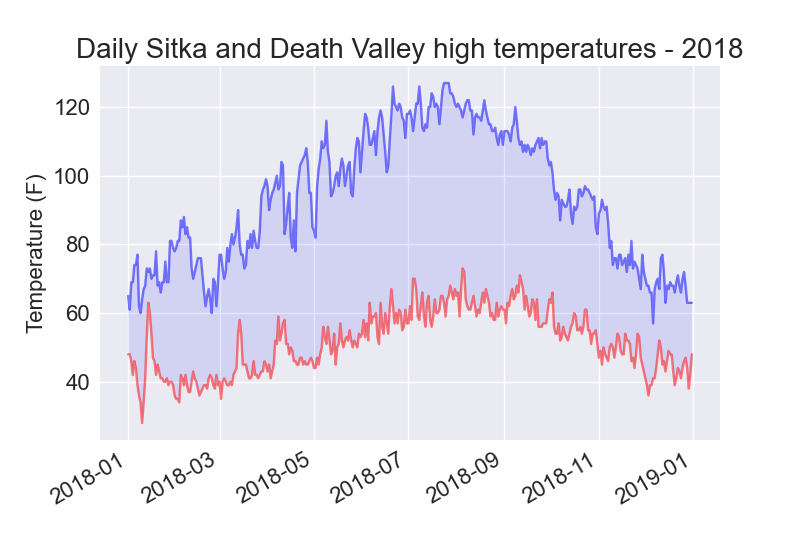
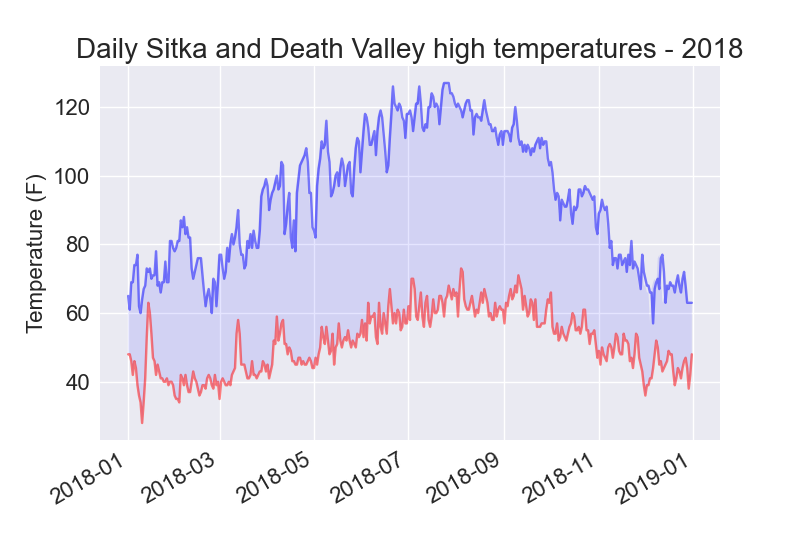
sikta death_valley high updated

Changed region(s): [[0.25, 0.4945, 0.8438, 0.7109]]

diff --git a/exercises/sikta__death_valley_highs.py b/exercises/sikta__death_valley_highs.py
@@ -10,12 +10,12 @@ with open(file_name) as f:
     header_row = next(reader) # get first line for the file
     
     # Get dates high temperatures from this sitka.
-    dates, sitka_highs = [], []
+    sk_dates, sitka_highs = [], []
     # Loop through the entire file and get the max_tem values
     for row in reader:
         current_date = datetime.strptime(row[2], '%Y-%m-%d')
         sk_high = int(row[5]) # Get the MaxTem results 
-        dates.append(current_date)
+        sk_dates.append(current_date)
         sitka_highs.append(sk_high)
     
 
@@ -28,7 +28,7 @@ with open(filename) as f:
     #     print(index, column_reader)
 
     # Get dates, and high and low tempratures for this file.
-    dates, death_valley_highs, = [], []
+    dv_dates, death_valley_highs, = [], []
     for row in reader:
         current_date = datetime.strptime(row[2], "%Y-%m-%d")
         try:
@@ -37,7 +37,7 @@ with open(filename) as f:
         except ValueError:
             print(f"Missing date for {current_date}")
         else:
-            dates.append(current_date)
+            dv_dates.append(current_date)
             death_valley_highs.append(dv_high)
             
 
@@ -45,16 +45,18 @@ with open(filename) as f:
     # Plot the sitka and death valley high temperature.
     plt.style.use('seaborn-v0_8')
     fig, ax = plt.subplots()
-    ax.plot(dates, sitka_highs, c='red', alpha=0.5) # display the dates and highs
-    ax.plot(dates, death_valley_highs, c='blue', alpha=0.5)
+    ax.plot(sk_dates, sitka_highs, c='red', alpha=0.5, label='Sitka') # display the dates and highs
+    ax.plot(dv_dates, death_valley_highs, c='blue', alpha=0.5, label='Death Valley')
+    ax.legend()
+    ax.set_ylim(20, 130)
 
     # Format Plot
     plt.title("Daily Sitka and Death Valley high temperatures - 2018", fontsize=20)
     plt.xlabel('', fontsize=16)
-    fig.autofmt_xdate() # draw the date dagonally
+    fig.autofmt_xdate() # draw the date diagonally
     plt.ylabel("Temperature (F)", fontsize=16)
     plt.tick_params(axis='both', which='major', labelsize=16)
-    plt.fill_between(dates, sitka_highs, death_valley_highs, facecolor='blue', alpha=0.1) # Add a shading between sitka and death vally highs fill.
-    plt.savefig('sikta_death_valley_high_tem.png')
+    plt.fill_between(sk_dates, sitka_highs, death_valley_highs, facecolor='blue', alpha=0.1) # Shade the area between Sitka and Death Valley highs fill.
+    plt.savefig('sitka_death_valley_high_temps.png')
     plt.show()
 
